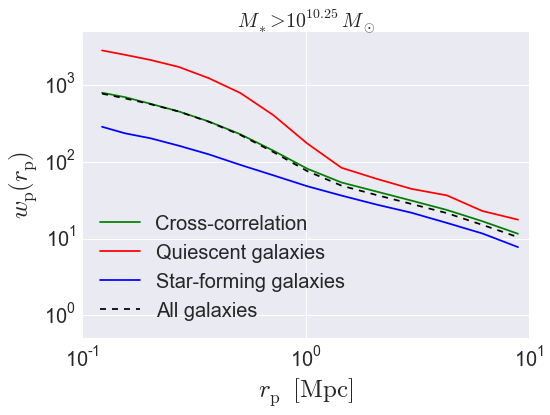
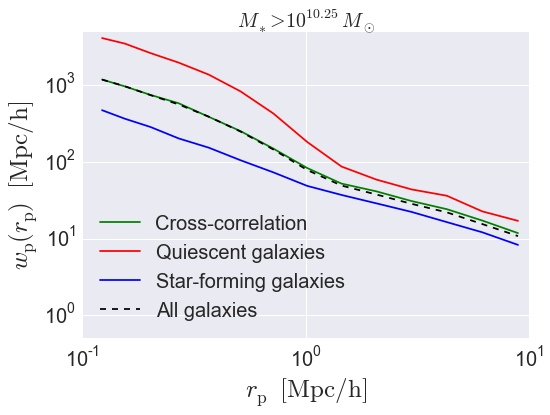
Fixed wp documentation to resolve #580

diff --git a/docs/quickstart_and_tutorials/tutorials/catalog_analysis/galcat_analysis/basic_examples/clustering_examples/galaxy_catalog_analysis_tutorial4.rst b/docs/quickstart_and_tutorials/tutorials/catalog_analysis/galcat_analysis/basic_examples/clustering_examples/galaxy_catalog_analysis_tutorial4.rst
@@ -1,27 +1,27 @@
 .. _galaxy_catalog_analysis_tutorial4:
 
-Galaxy Catalog Analysis Example: Projected galaxy clustering 
+Galaxy Catalog Analysis Example: Projected galaxy clustering
 =====================================================================================
 
 In this example, we'll show how to calculate :math:`w_{\rm p},` the
 projected clustering signal of a mock catalog.
 
-There is also an IPython Notebook in the following location that can be 
+There is also an IPython Notebook in the following location that can be
 used as a companion to the material in this section of the tutorial:
 
 
     **halotools/docs/notebooks/galcat_analysis/basic_examples/galaxy_catalog_analysis_tutorial4.ipynb**
 
-By following this tutorial together with this notebook, 
-you can play around with your own variations of the calculation 
-as you learn the basic syntax. 
+By following this tutorial together with this notebook,
+you can play around with your own variations of the calculation
+as you learn the basic syntax.
 
-Generate a mock galaxy catalog 
+Generate a mock galaxy catalog
 ---------------------------------
 Let's start out by generating a mock galaxy catalog into an N-body
 simulation in the usual way. Here we'll assume you have the *z=0*
 rockstar halos for the bolshoi simulation, as this is the
-default halo catalog. 
+default halo catalog.
 
 .. code:: python
 
@@ -31,11 +31,11 @@ default halo catalog.
     halocat = CachedHaloCatalog(simname = 'bolshoi', redshift = 0, halo_finder = 'rockstar')
     model.populate_mock(halocat)
 
-Extract subsamples of galaxy positions 
+Extract subsamples of galaxy positions
 ------------------------------------------------------------------
-The projected galaxy clustering signal is calculated by 
-the `~halotools.mock_observables.wp` function from  
-the *x, y, z* positions of the galaxies stored in the ``galaxy_table``. 
+The projected galaxy clustering signal is calculated by
+the `~halotools.mock_observables.wp` function from
+the *x, y, z* positions of the galaxies stored in the ``galaxy_table``.
 We can retrieve these arrays as follows:
 
 .. code:: python
@@ -44,13 +44,13 @@ We can retrieve these arrays as follows:
     y = model.mock.galaxy_table['y']
     z = model.mock.galaxy_table['z']
 
-As described in :ref:`mock_obs_pos_formatting`, 
-functions in the `~halotools.mock_observables` package 
-such as `~halotools.mock_observables.wp` take array inputs in a 
-specific form: a (*Npts, 3)*-shape Numpy array. You can use the 
-`~halotools.mock_observables.return_xyz_formatted_array` convenience 
-function for this purpose, which has a built-in *mask* feature 
-that we'll also demonstrate to select positions of quiescent and 
+As described in :ref:`mock_obs_pos_formatting`,
+functions in the `~halotools.mock_observables` package
+such as `~halotools.mock_observables.wp` take array inputs in a
+specific form: a (*Npts, 3)*-shape Numpy array. You can use the
+`~halotools.mock_observables.return_xyz_formatted_array` convenience
+function for this purpose, which has a built-in *mask* feature
+that we'll also demonstrate to select positions of quiescent and
 star-forming populations.
 
 .. code:: python
@@ -67,17 +67,17 @@ star-forming populations.
 
 Calculate :math:`w_{\rm p}(r_{\rm p})`
 -------------------------------------------------------------
-The correlation function :math:`w_{\rm p}(r_{\rm p})` is 
-related to the full redshift-space correlation function :math:`\xi(r_{\rm p}, \pi)` 
+The correlation function :math:`w_{\rm p}(r_{\rm p})` is
+related to the full redshift-space correlation function :math:`\xi(r_{\rm p}, \pi)`
 via the following projection integral:
 
-.. math:: 
+.. math::
 
-    w_{\rm p}(r_{\rm p}) \equiv \frac{1}{2\pi_{\rm max}}\int_{-\pi_{\rm max}}^{\pi_{\rm max}}{\rm d}\pi'\xi(r_{\rm p}, \pi')
+    w_{\rm p}(r_{\rm p}) \equiv 2\int_{0}^{\pi_{\rm max}}{\rm d}\pi'\xi(r_{\rm p}, \pi')
 
-When calculating :math:`w_{\rm p}`, we therefore need to specify both the 
-projected separation bins :math:`r_{\rm p}` and the line-of-sight 
-projection distance :math:`\pi_{\rm max}`. 
+When calculating :math:`w_{\rm p}`, we therefore need to specify both the
+projected separation bins :math:`r_{\rm p}` and the line-of-sight
+projection distance :math:`\pi_{\rm max}`.
 
 .. code:: python
 
@@ -87,28 +87,28 @@ projection distance :math:`\pi_{\rm max}`.
     pi_max = 40.
     rp_bins = np.logspace(-1,1.25,15)
 
-    wp_all = wp(all_positions, rp_bins, pi_max, 
+    wp_all = wp(all_positions, rp_bins, pi_max,
         period=model.mock.Lbox, num_threads='max')
-    wp_red = wp(red_positions, rp_bins, pi_max, 
+    wp_red = wp(red_positions, rp_bins, pi_max,
         period=model.mock.Lbox, num_threads='max')
-    wp_blue = wp(blue_positions, rp_bins, pi_max, 
+    wp_blue = wp(blue_positions, rp_bins, pi_max,
         period=model.mock.Lbox, num_threads='max')
 
-Plot the results 
+Plot the results
 ~~~~~~~~~~~~~~~~~~~~
 
 .. code:: python
 
     rp_bin_centers = (rp_bins[:1] + rp_bins[1:])/2.
 
-    plt.plot(rp_bin_centers, wp_all, 
-             label=r'All galaxies', 
+    plt.plot(rp_bin_centers, wp_all,
+             label=r'All galaxies',
              color='k')
-    plt.plot(rp_bin_centers, wp_red, 
-             label=r'Quiescent galaxies', 
+    plt.plot(rp_bin_centers, wp_red,
+             label=r'Quiescent galaxies',
              color='red')
-    plt.plot(rp_bin_centers, wp_blue, 
-             label=r'Star-forming galaxies', 
+    plt.plot(rp_bin_centers, wp_blue,
+             label=r'Star-forming galaxies',
              color='blue')
 
     plt.xlim(xmin = 0.1, xmax = 10)
@@ -125,37 +125,37 @@ Plot the results
 
 Calculating cross-correlations
 ------------------------------
-The `~halotools.mock_observables.wp` function also supports 
+The `~halotools.mock_observables.wp` function also supports
 calculating the cross-correlation
 between two different samples. Here we'll show how to calculate the
 red-red, blue-blue, and red-blue clustering all in a single call to
-`~halotools.mock_observables.wp`. 
+`~halotools.mock_observables.wp`.
 
 .. code:: python
 
-    wp_red_red, wp_red_blue, wp_blue_blue = wp(red_positions, rp_bins, pi_max, 
-                                               sample2 = blue_positions, 
-                                               period=model.mock.Lbox, num_threads='max', 
+    wp_red_red, wp_red_blue, wp_blue_blue = wp(red_positions, rp_bins, pi_max,
+                                               sample2 = blue_positions,
+                                               period=model.mock.Lbox, num_threads='max',
                                                do_auto = True, do_cross = True)
 
-Plot the results 
+Plot the results
 ~~~~~~~~~~~~~~~~~~~~
 
 .. code:: python
 
-    plt.plot(rp_bin_centers, wp_red_blue, 
-             label=r'Cross-correlation', 
+    plt.plot(rp_bin_centers, wp_red_blue,
+             label=r'Cross-correlation',
              color='green')
-    plt.plot(rp_bin_centers, wp_red_red, 
-             label=r'Quiescent galaxies', 
+    plt.plot(rp_bin_centers, wp_red_red,
+             label=r'Quiescent galaxies',
              color='red')
-    plt.plot(rp_bin_centers, wp_blue_blue, 
-             label=r'Star-forming galaxies', 
+    plt.plot(rp_bin_centers, wp_blue_blue,
+             label=r'Star-forming galaxies',
              color='blue')
     plt.plot(rp_bin_centers, wp_all, '--',
-             label=r'All galaxies', 
+             label=r'All galaxies',
              color='k')
-    
+
     plt.xlim(xmin = 0.1, xmax = 10)
     plt.ylim(ymin = 0.5, ymax = 5e3)
     plt.loglog()
@@ -169,7 +169,7 @@ Plot the results
 
 .. image:: wp_red_blue_cross.png
 
-This tutorial continues with :ref:`galaxy_catalog_analysis_tutorial5`. 
+This tutorial continues with :ref:`galaxy_catalog_analysis_tutorial5`.
 
 
 
